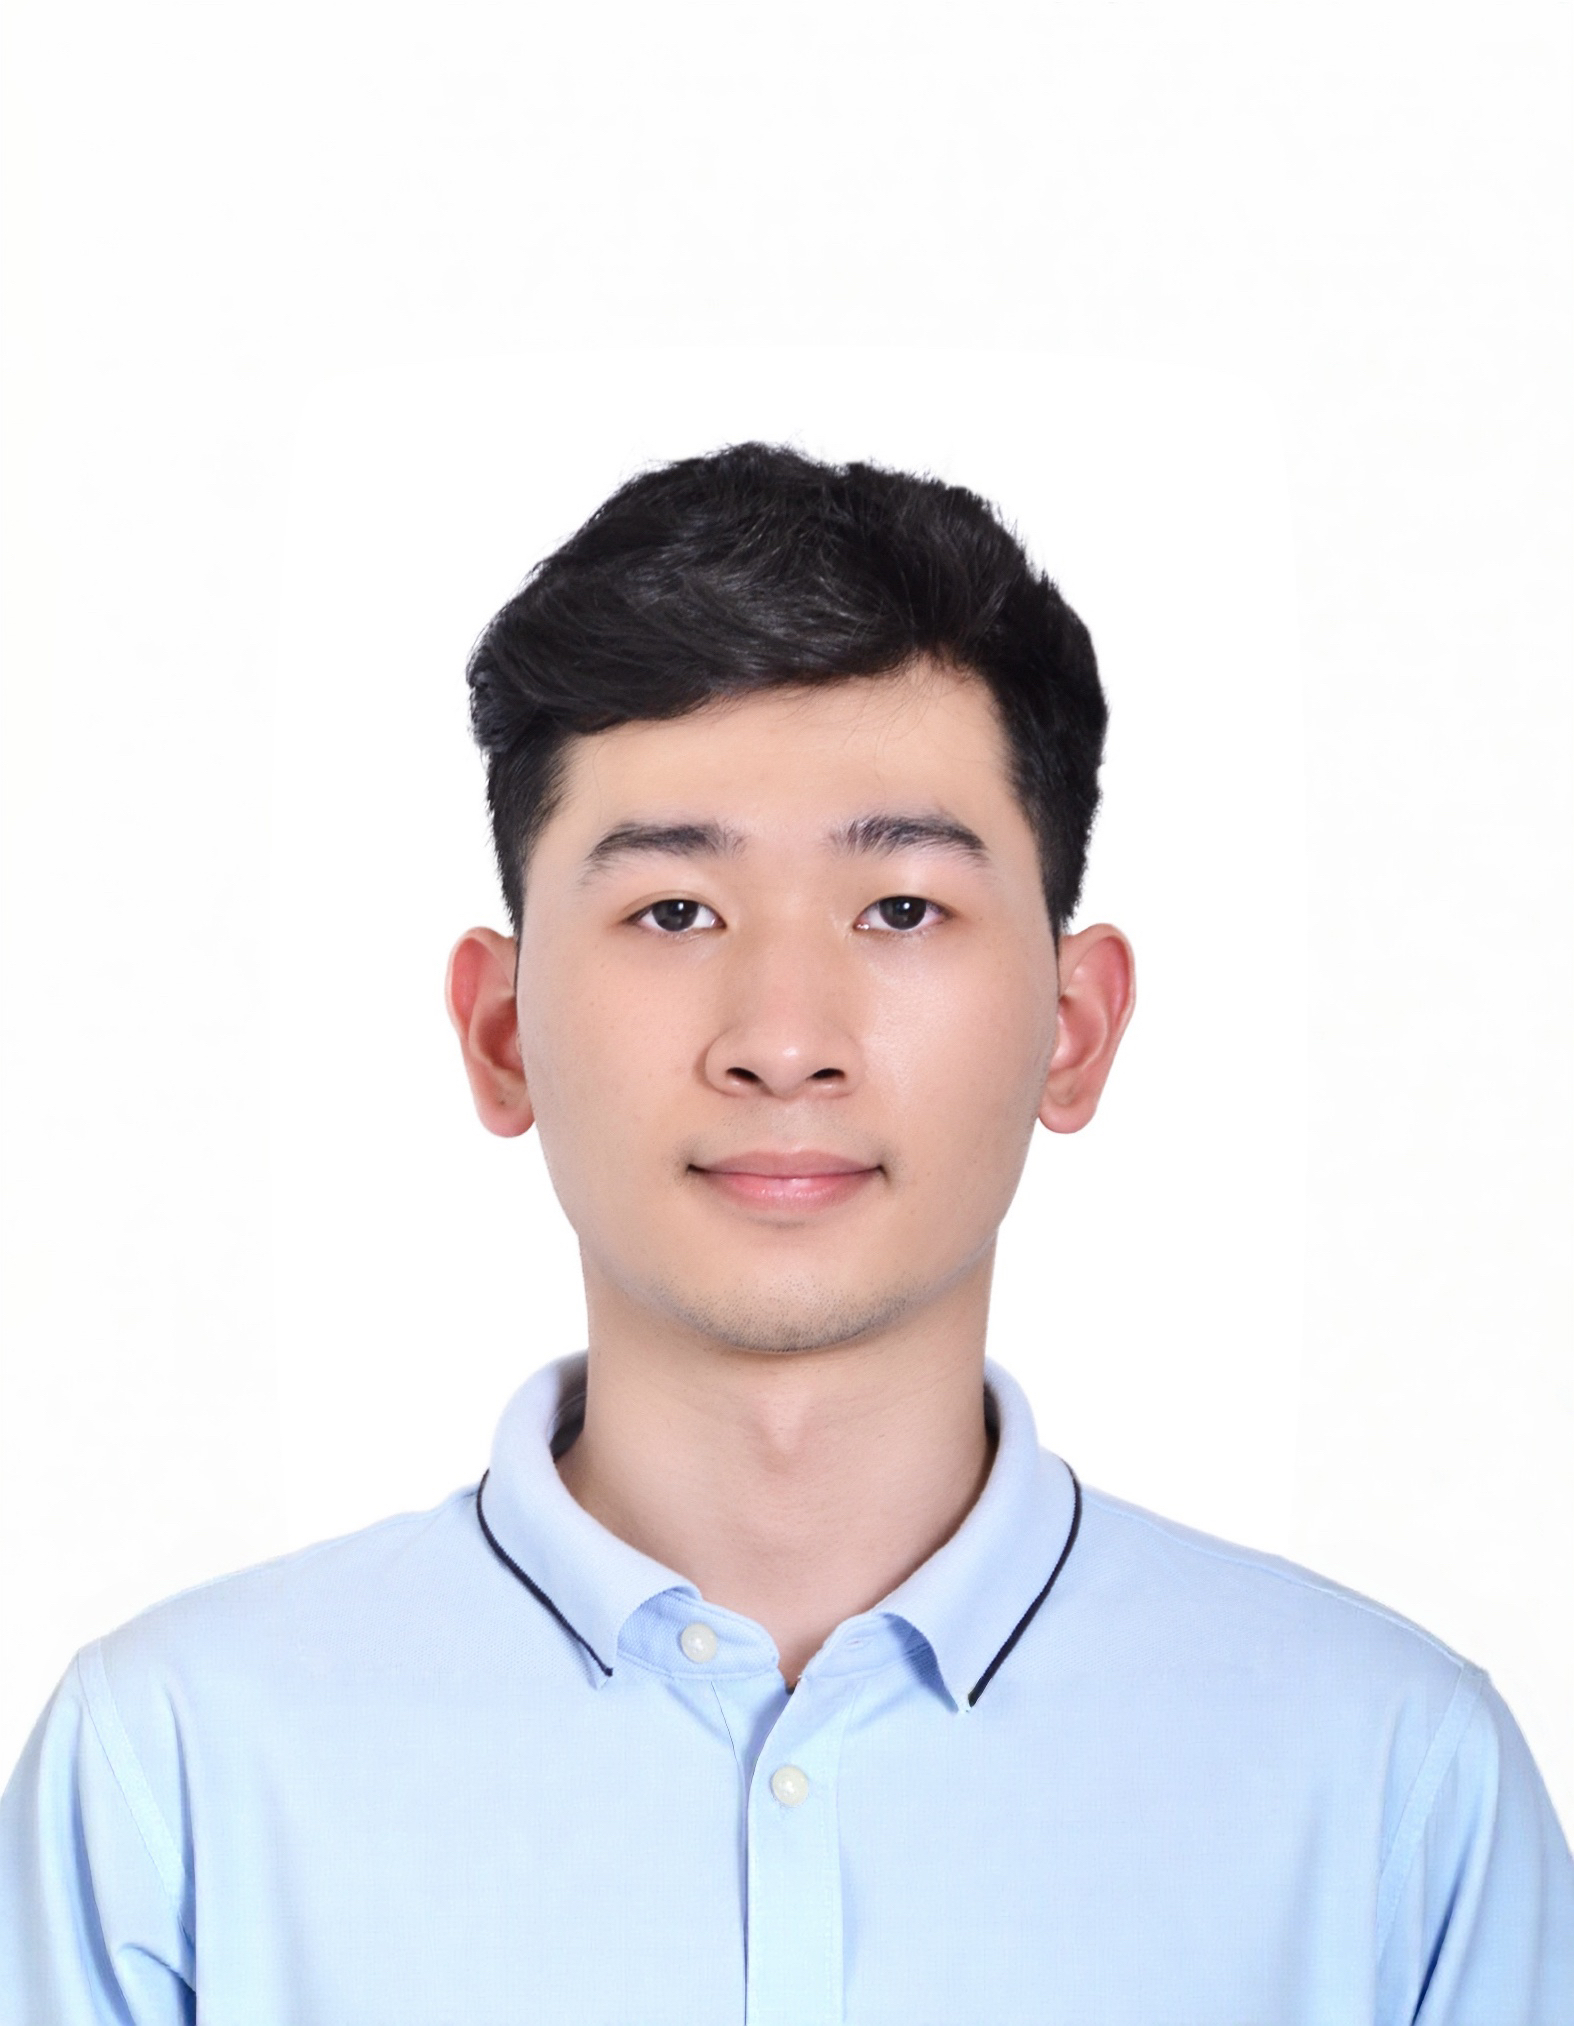
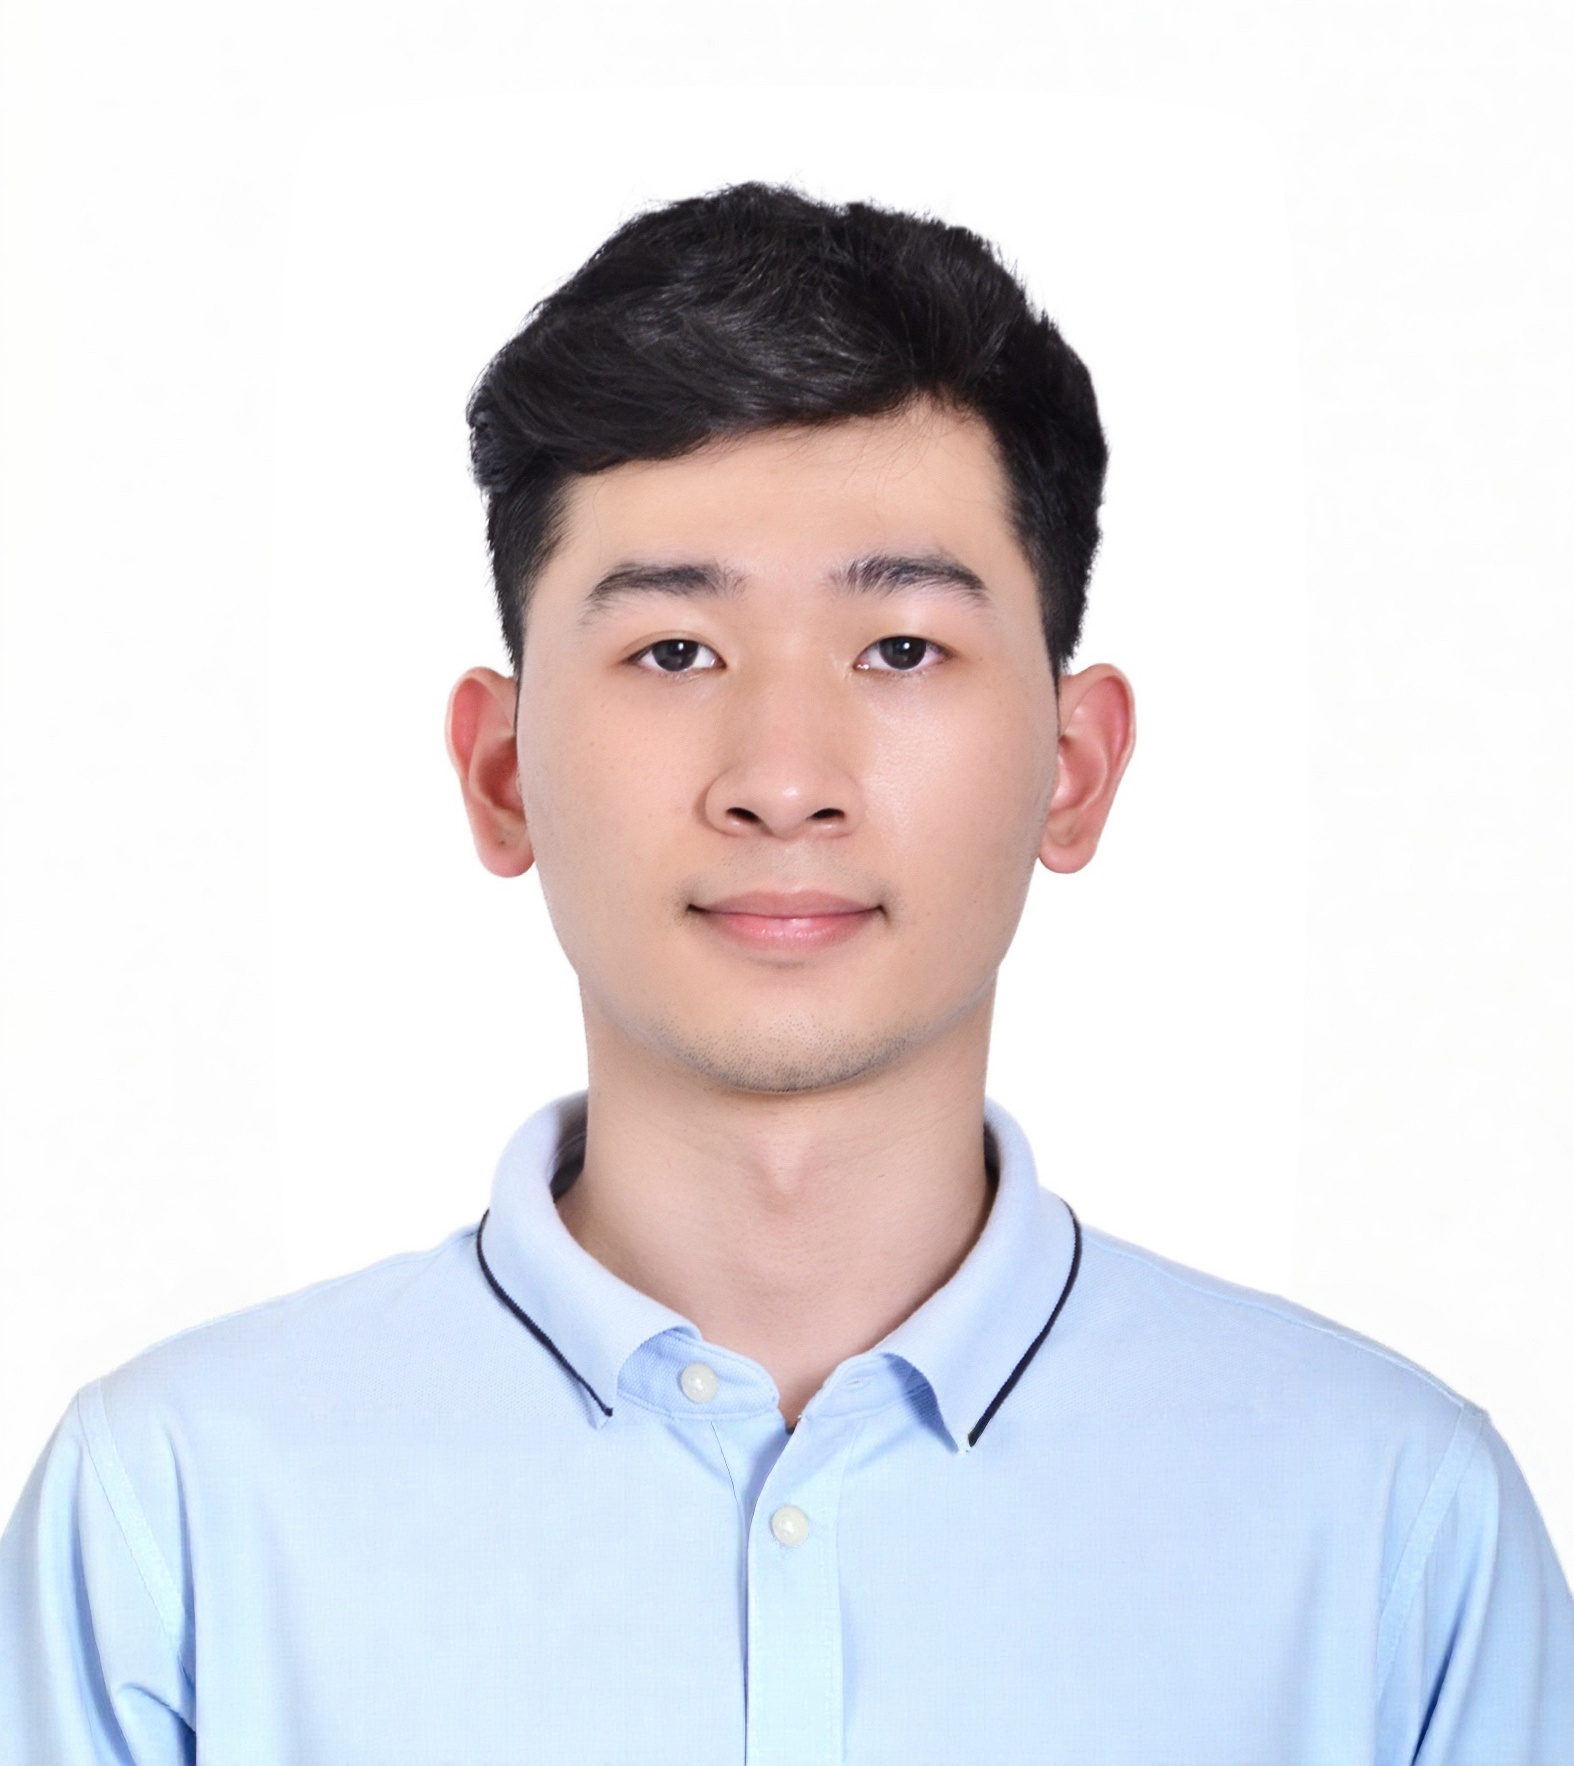
Update domain host

diff --git a/_pages/about.md b/_pages/about.md
@@ -34,24 +34,23 @@ Prior to this, I earned my Master’s degree in Computer Science and my Bachelor
 🏆 Honors and Awards
 ======
 - *2024 - 2027*: QUT-CSIRO Cooperative PhD Scholarship
-- *2021 - 2023*: Scholarship for Master's Training in Vietnam - [Vingroup Innovation Foundation](https://vinif.org/en/) (VinIF)
-- *2021*: First-Class Honours (Top 1%), Bachelor of Information Technology - Hanoi University of Science and Technology 
-- *2020*: **Second Prize**, Scientific Research Student Award - Vietnamese Ministry of Education and Training
-- *2020*: **First Prize**, Scientific Research Student Award - Hanoi University of Science and Technology
-- *2014 - 2017*: Honours Scholarship (3 Academic Years) — Hanoi–Amsterdam High School for the Gifted
+- *2021 - 2023*: Scholarship for Master's Training in Vietnam — [Vingroup Innovation Foundation](https://vinif.org/en/) (VinIF)
+- *2021*: First-Class Honours (Top 1%), Bachelor of Information Technology — Hanoi University of Science and Technology 
+- *2020*: **Second Prize**, Scientific Research Student Award — Vietnamese Ministry of Education and Training
+- *2020*: **First Prize**, Scientific Research Student Award — Hanoi University of Science and Technology
+- *2014 - 2017*: Honours Scholarship (3 Academic Years) — Hanoi-Amsterdam High School for the Gifted
 
 
 🎓 Educations
 ======
-- *2024 - now*: PhD Candidate - Queensland University of Technology
+- *2024 - now*: PhD Candidate, Queensland University of Technology
 - *2021 - 2023*: Master of Computer Science, Hanoi University of Science and Technology
 - *2017 - 2021*: Bachelor of Information Technology (Honours), Hanoi University of Science and Technology
 - *2014 - 2017*: Mathematics Specialized Class, Hanoi Amsterdam High School for the Gifted
 
 
-💁 Academic Service
+💁 Academic Services
 ======
-Reviewer for : 
-- Journals: IEEE Transactions on Evolutionary Computation; Evolutionary Intelligence; Thin-Walled Structures; Archives of Computational Methods in Engineering
+- Journal Reviewer: IEEE Transactions on Evolutionary Computation; Evolutionary Intelligence; Thin-Walled Structures; Archives of Computational Methods in Engineering
 <!-- - Conference: AAAI, SOICT -->
 
